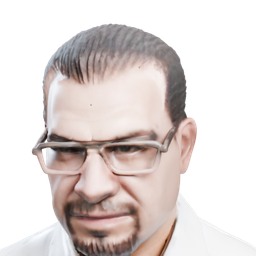
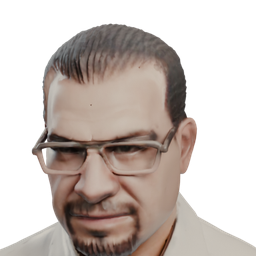
Marco toned down to match the game's room lighting
Claude-Session: https://claude.ai/code/session_01NPxWDMmDr35mH1YXpri3Ec

diff --git a/tools/marco_glb.py b/tools/marco_glb.py
@@ -76,7 +76,7 @@ sc.cycles.use_denoising = True
 sc.render.film_transparent = True
 sc.view_settings.view_transform = "AgX"
 sc.view_settings.look = "AgX - Medium High Contrast"
-sc.view_settings.exposure = -0.1
+sc.view_settings.exposure = -0.45   # Faisal: Marco read too bright against the game rooms
 w = bpy.data.worlds.new("w")
 sc.world = w
 w.use_nodes = True
